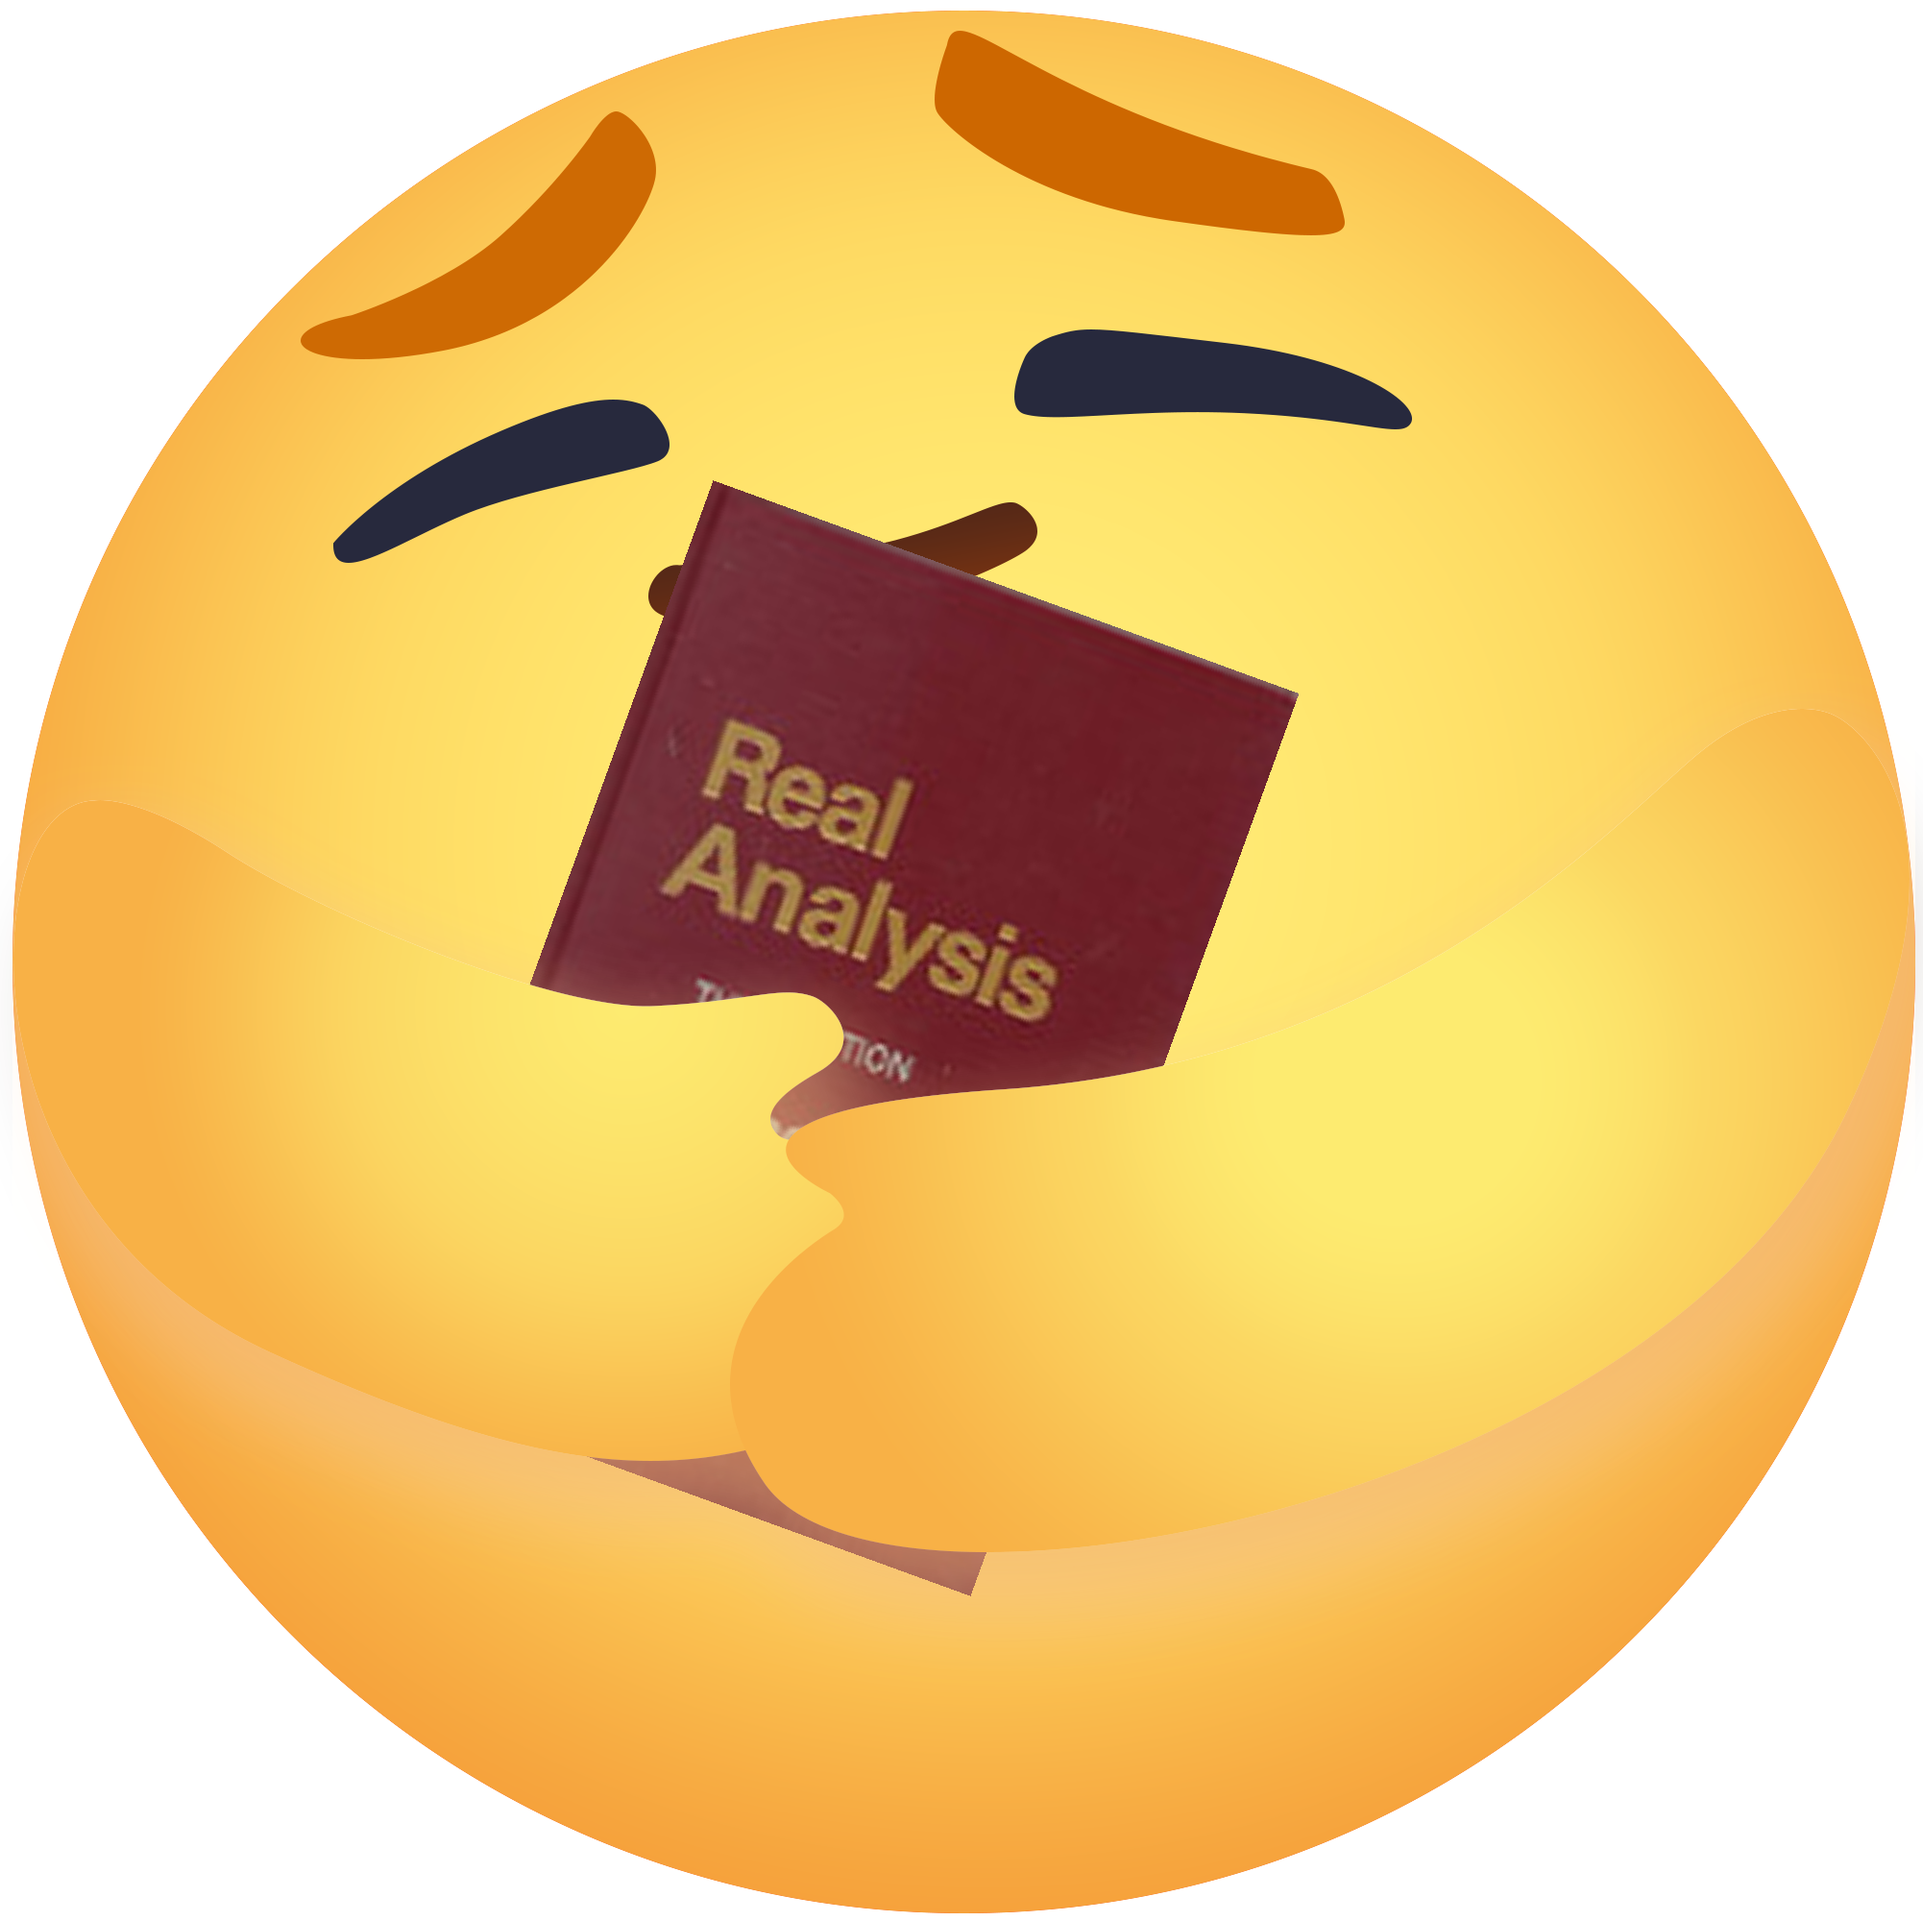
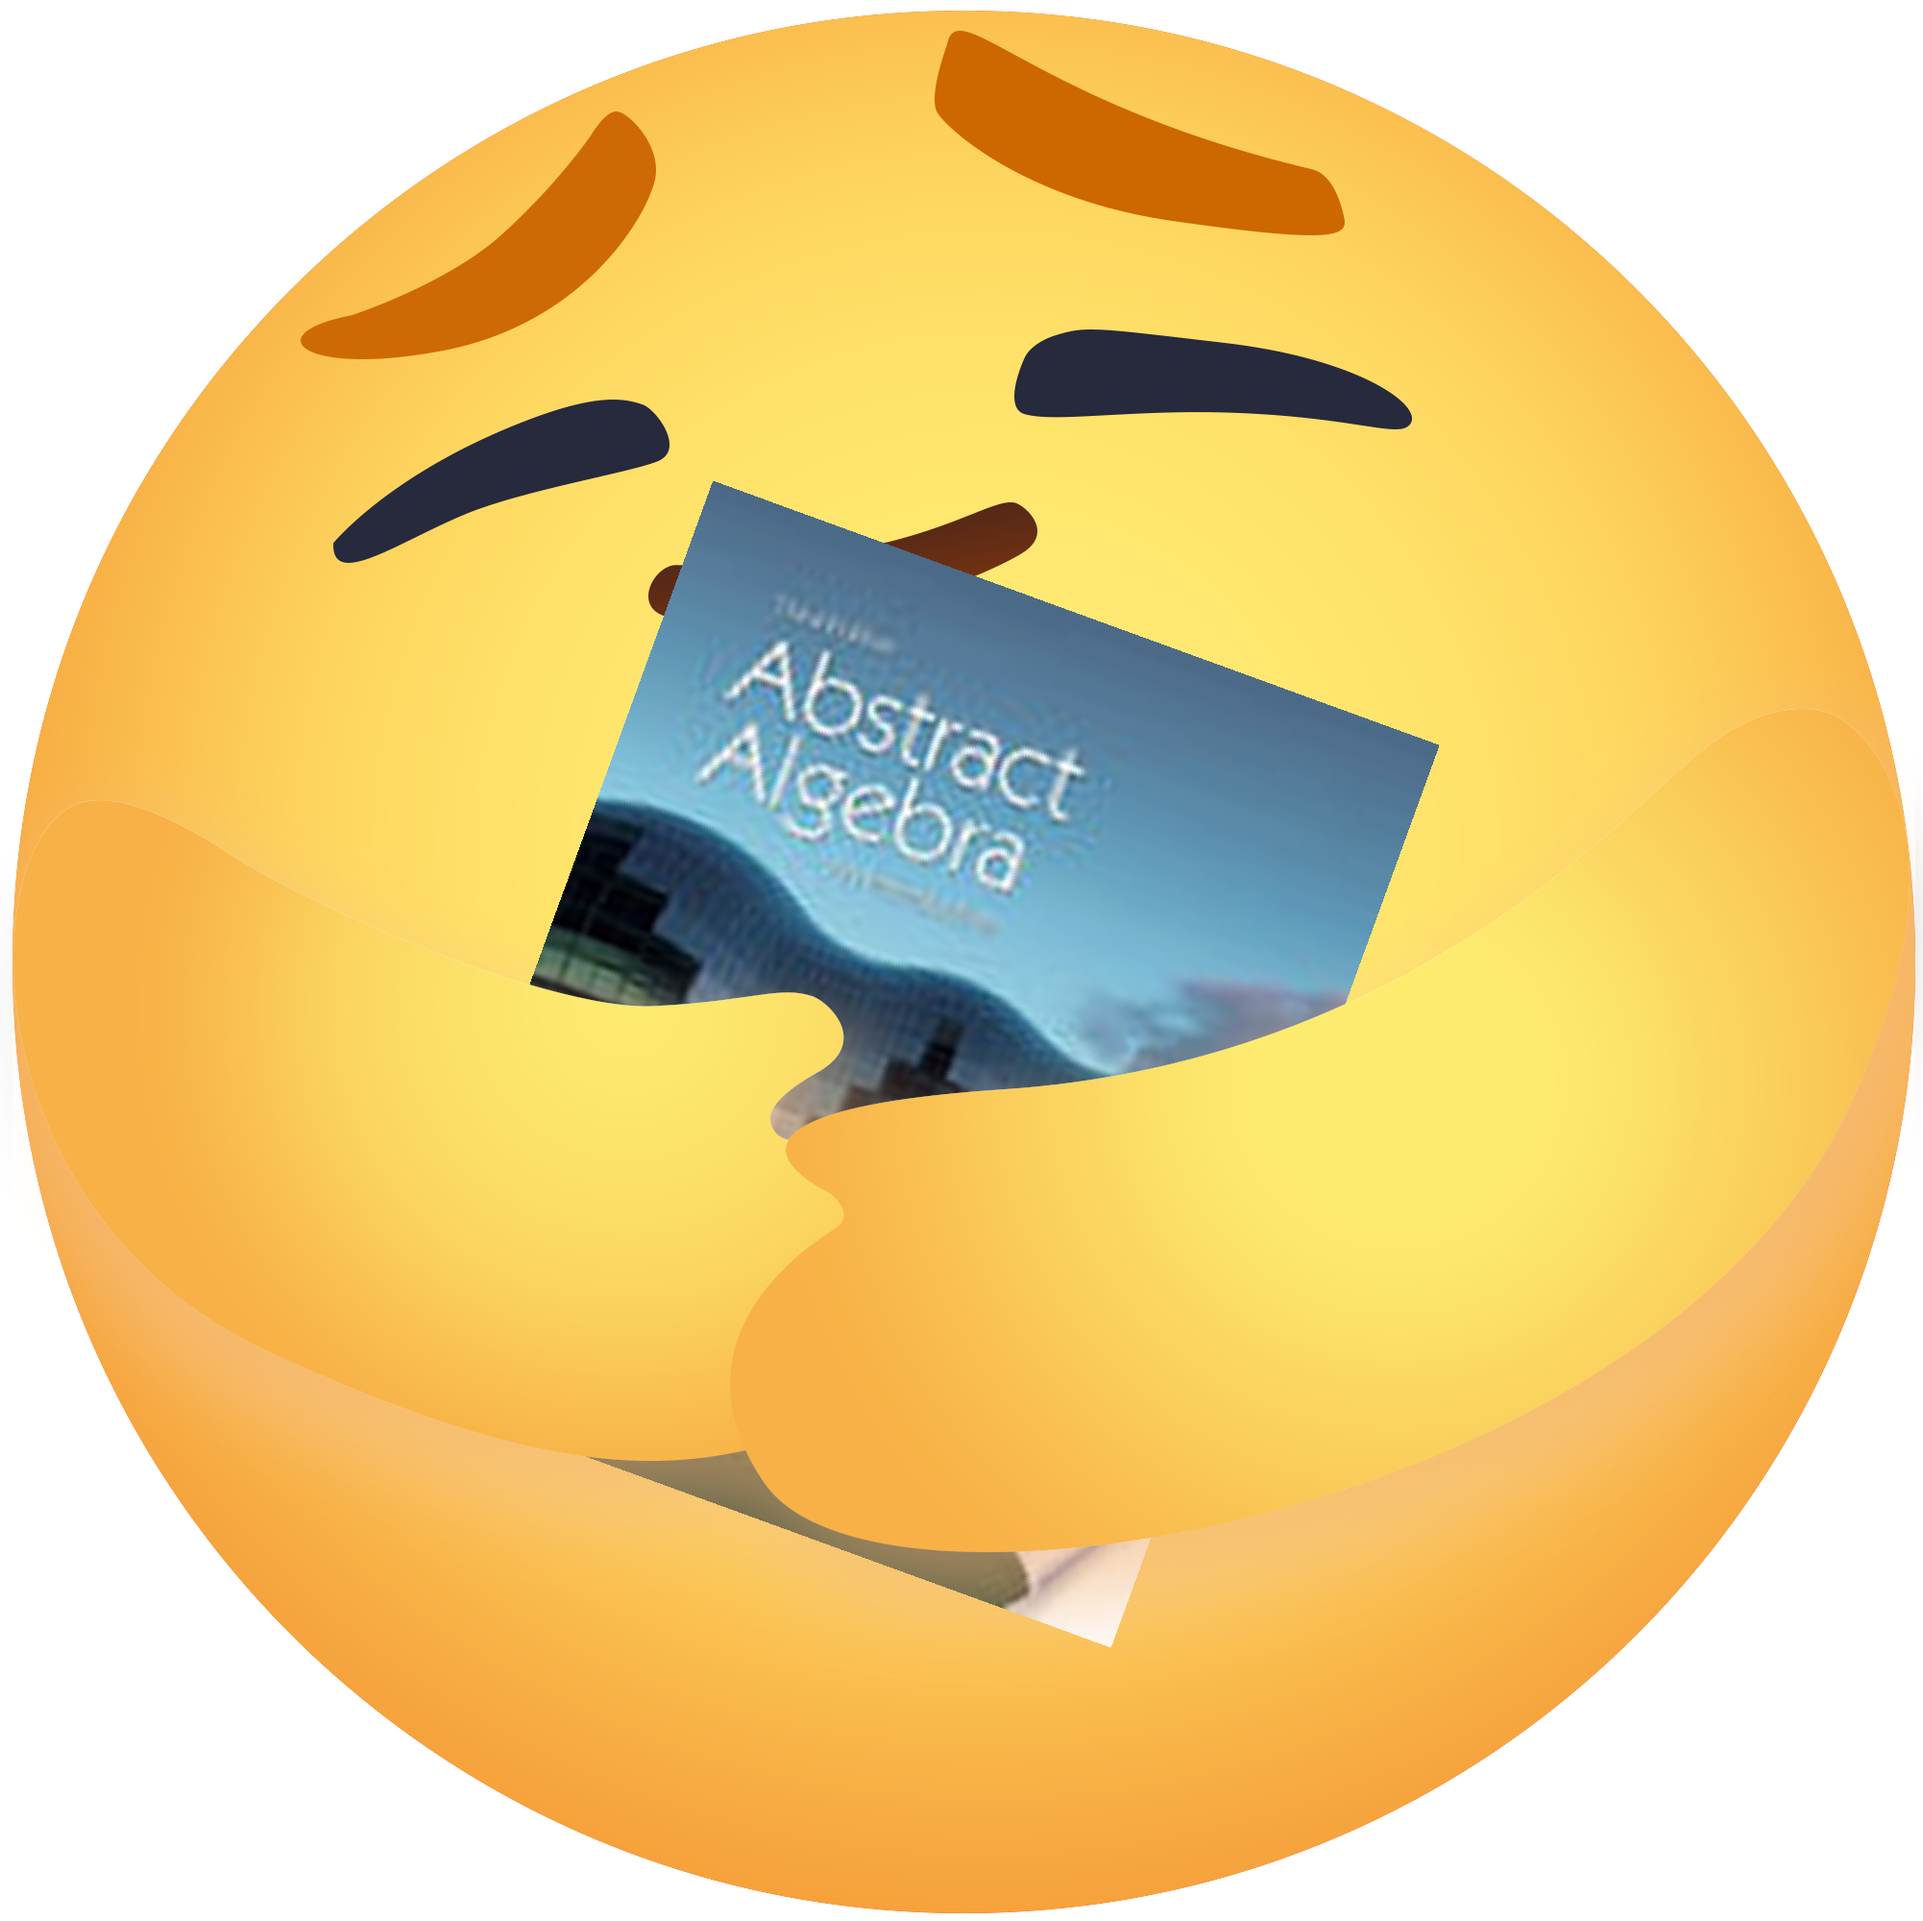
example file created

Changed region(s): [[0.2787, 0.248, 0.7433, 0.589], [0.3097, 0.744, 0.5884, 0.868]]

diff --git a/source/emojiGenerator.py b/source/emojiGenerator.py
@@ -1,14 +1,16 @@
 import PIL
 from PIL import Image
+import os
 from bookCover import BookHandler
 
 class EmojiGenerator:
     def __init__(self):
-        self.__img_emoji = Image.open("./images/emoji.png")
+        self.__path = os.path.dirname(os.path.abspath(__file__))
+        self.__img_emoji = Image.open(self.__path + "/images/emoji.png")
         self.__img_emoji = self.__img_emoji.convert("RGBA")
         self.__emoji_w, self.__emoji_h = self.__img_emoji.size
 
-        self.__img_arm = Image.open("./images/arm.png")
+        self.__img_arm = Image.open(self.__path + "/images/arm.png")
         self.__img_arm = self.__img_arm.convert("RGBA")
     
     def rotatingMask(self, img, rotation_angle = -20):

diff --git a/example/example.py b/example/example.py
@@ -1,0 +1,20 @@
+import sys
+import os
+sys.path.append(os.path.dirname(os.path.abspath(__file__)) + "/../source/")
+
+try:
+    from emojiGenerator import EmojiGenerator
+    from bookCover import BookHandler
+except:
+    print(os.path.dirname(__file__))
+
+
+if __name__ == '__main__':
+    file_path = 'example/'
+    file_name = 'output'
+    file_ext = '.png'
+    
+    isbns = ['9781475738490', '9780024041517', '9781111569624']
+    for i, isbn in enumerate(isbns):
+        book_cover = BookHandler().getImageByISBN(isbn)
+        EmojiGenerator().generateCareEmoji(book_cover).save(file_path + file_name + str(i) + file_ext)
